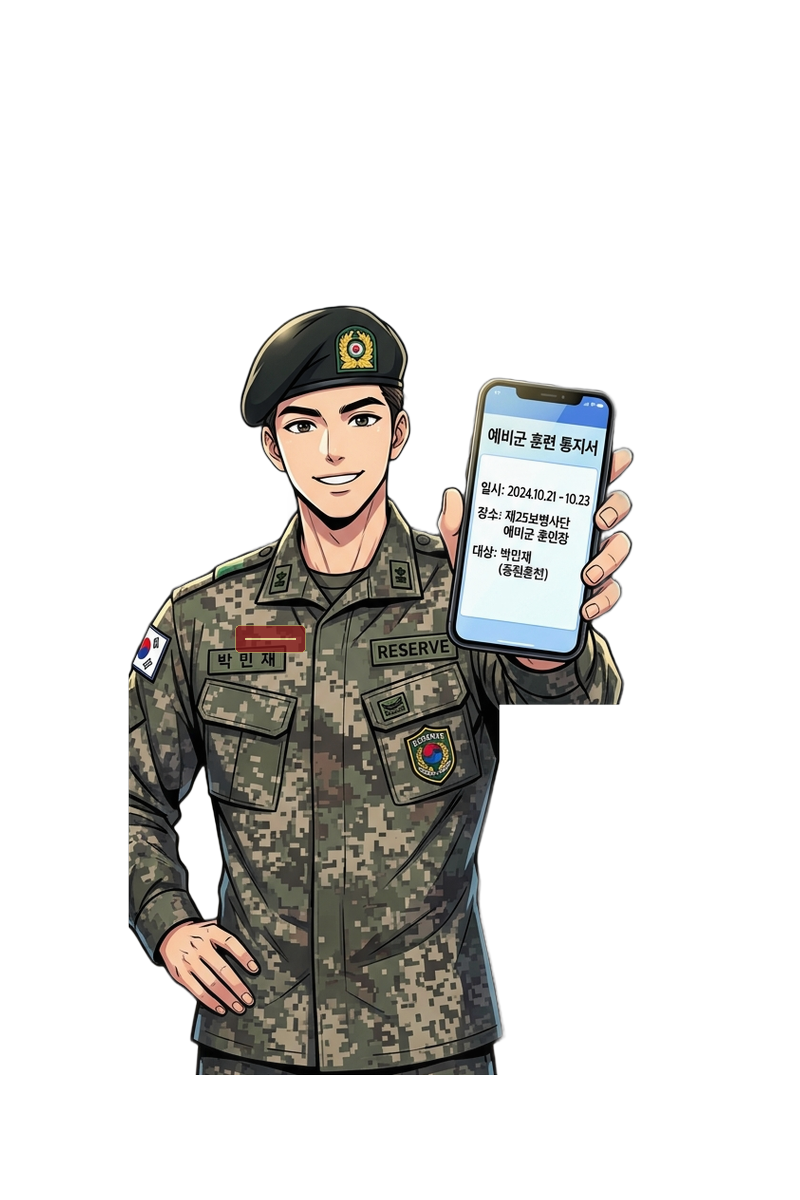
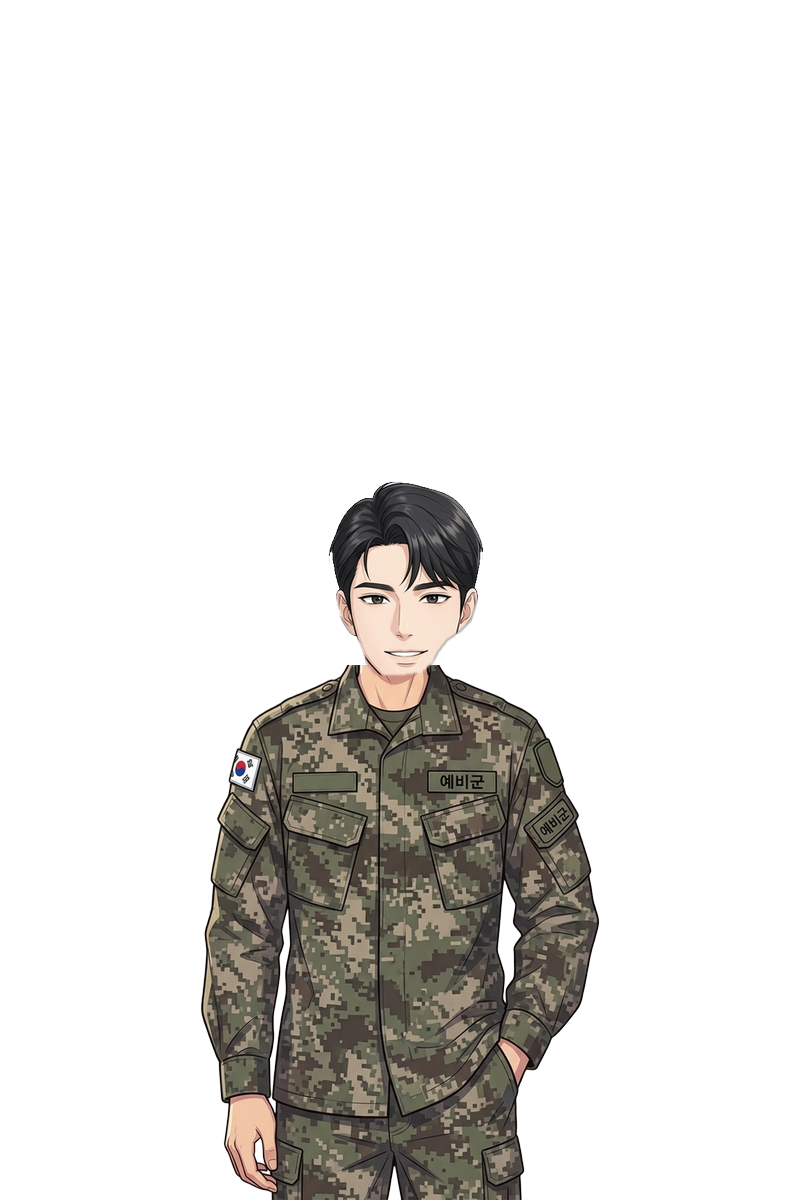
feat(ep2): 2화 AI 멘토 선택(힘찬/유나/서준) 연동 및 훈련 교관(최 상사) 핸드폰 제거/카리스마 군인 캐릭터 전면 교체

Changed region(s): [[0.1562, 0.2467, 0.8125, 1.0]]

diff --git a/index.html b/index.html
@@ -2353,8 +2353,8 @@
     // 가이드 페르소나 (외형, 화자명, 말투, 플레이트 색상) 동적 변환 헬퍼
     function getGuideResolvedItem(item) {
       if (!item) return item;
-      // Scene 1(가이드 멘토 첫 등장 및 선택 안내)은 사용자가 멘토를 결정하기 전이므로 항상 기본 캐릭터인 '힘찬이'로 고정
-      if (currentSceneIdx === 1) {
+      // Episode 1의 Scene 1(가이드 멘토 첫 등장 및 선택 안내)은 사용자가 멘토를 결정하기 전이므로 항상 기본 캐릭터인 '힘찬이'로 고정
+      if (currentPlayingEpisode === 1 && currentSceneIdx === 1) {
         return item;
       }
       const guideId = userData.selectedGuide || 'himchan';
@@ -2430,7 +2430,7 @@
       currentSceneIdx = idx;
       const scenarios = getCurrentScenarios();
       if (!scenarios || idx >= scenarios.length) return;
-      if (currentPlayingEpisode === 1 && idx === 1 && scenarios[1]) {
+      if ((currentPlayingEpisode === 1 || currentPlayingEpisode === 2) && idx === 1 && scenarios[1]) {
         // Scene 1에서는 가이드 선택 인트로 위젯 우선 표출
         scenarios[1].widgetType = 'GUIDE_SELECT_INTRO';
       }
@@ -3262,7 +3262,58 @@
       stopPreviewAudio();
       stopVoiceAudio();
       selectGuide(guideId, true, false);
-      proceedToRegionPicker(guideId);
+      if (currentPlayingEpisode === 2) {
+        proceedToEp2GuideGreeting(guideId);
+      } else {
+        proceedToRegionPicker(guideId);
+      }
+    }
+
+    function proceedToEp2GuideGreeting(guideId) {
+      const choiceOverlay = document.getElementById('center-choice-overlay');
+      const choiceContainer = document.getElementById('center-choice-container');
+      if (choiceOverlay) {
+        choiceOverlay.classList.add('hidden');
+        choiceOverlay.classList.remove('flex');
+      }
+      if (choiceContainer) choiceContainer.innerHTML = '';
+      
+      const gid = guideId || userData.selectedGuide || 'himchan';
+      const g = (typeof GUIDE_PERSONAS !== 'undefined' && GUIDE_PERSONAS[gid]) || (typeof GUIDE_PERSONAS !== 'undefined' ? GUIDE_PERSONAS.himchan : null);
+      
+      let askMsgKo = "";
+      let askMsgEn = "";
+      if (gid === 'himchan') {
+        askMsgKo = "충성! 선배님! 저 힘찬이가 전역 후 첫 예비군 훈련도 든든하게 보좌해 드리겠습니다!\n\n시험 일정과 훈련이 겹쳐서 많이 당황하셨죠? 걱정 마십시오! 선배님의 현재 [신분과 직업(학업)]에 맞는 맞춤형 훈련 혜택부터 바로 확인해 드릴게요!";
+        askMsgEn = "Salute! Senior {name}! Mentor Himchan will stand by you through your first reservist training!\n\nPanicked over exam dates overlapping? No worries! Let's immediately check the tailored training deferment matching your [Status & Occupation]!";
+      } else if (gid === 'yuna' || gid === 'narae') {
+        askMsgKo = "반가워요, {name} 선배님! 멘토 유나가 첫 예비군 훈련의 모든 절차를 하나하나 편안하게 챙겨드릴게요 :)\n\n시험 일정 때문에 너무 걱정하지 마세요! 먼저 선배님의 현재 [신분과 직업(학업)]에 맞는 훈련 과정부터 함께 확인해 볼까요?";
+        askMsgEn = "Nice to meet you, Senior {name}! I'm mentor Yuna, and I'll comfortably guide you through all reservist steps :)\n\nDon't stress over exam dates! Shall we first check the training program tailored to your [Status & Studies]?";
+      } else if (gid === 'seojun') {
+        askMsgKo = "안녕하십니까 {name} 선배님, 스마트 멘토 서준입니다. 학업과 예비군 훈련의 효율적인 병행을 위해 관련 규정과 일정을 신속 정확하게 안내해 드리겠습니다.\n\n먼저 선배님의 현재 [신분과 직업]에 따른 맞춤형 훈련 과정부터 확인해 볼까요?";
+        askMsgEn = "Greetings Senior {name}, I'm smart mentor Seojun. To efficiently balance your studies and reservist duty, I will guide you with precision and clear facts.\n\nShall we verify your tailored training program based on your current status first?";
+      } else {
+        askMsgKo = "선택해 주셔서 감사합니다, {name} 선배님! 든든한 멘토가 되어 드리겠습니다.\n\n선배님의 현재 [신분과 직업]에 맞는 맞춤형 훈련 과정부터 확인해 볼까요?";
+        askMsgEn = "Thank you for choosing me, Senior {name}! I'll be your dependable guide.\n\nShall we check your tailored training program first?";
+      }
+
+      const speakerKo = g ? `${g.name} (병무청 AI 가이드)` : "힘찬이 (병무청 AI 가이드)";
+      const speakerEn = g ? `${g.name_en} (MMA AI Guide)` : "Himchan (MMA AI Guide)";
+      const plateClass = g ? g.plateClass : "from-blue-700 to-indigo-800 border-blue-400/40";
+      const charSrc = (g && g.sprites && (g.sprites.smile || g.sprites.cheer || g.sprites.default)) || "assets/himchan_smile.png";
+
+      if (typeof SCENARIOS_EP2 !== 'undefined' && SCENARIOS_EP2[1]) {
+        SCENARIOS_EP2[1].widgetType = null;
+      }
+
+      updateDialogueDirect(
+        speakerKo,
+        speakerEn,
+        plateClass,
+        charSrc,
+        askMsgKo,
+        askMsgEn
+      );
     }
 
     function proceedToRegionPicker(guideId) {
@@ -3901,7 +3952,7 @@
             <!-- 멘토 캐릭터 선택 안내 헤더 -->
             <div class="bg-slate-900/95 border border-slate-700/80 rounded-2xl p-2.5 sm:p-4 text-center shadow-xl">
               <span class="text-xs sm:text-sm font-black text-blue-300 flex items-center justify-center gap-1.5 mb-1 tracking-wide">
-                <i data-lucide="users" class="w-4 h-4 text-cyan-400"></i> ${isEn ? 'Choose Your AI Mentor Guide' : '병역판정검사 동행 AI 가이드 멘토 선택'}
+                <i data-lucide="users" class="w-4 h-4 text-cyan-400"></i> ${isEn ? (currentPlayingEpisode === 2 ? 'Choose Your Reservist AI Mentor' : 'Choose Your AI Mentor Guide') : (currentPlayingEpisode === 2 ? '슬기로운 예비군 훈련 동행 AI 가이드 멘토 선택' : '병역판정검사 동행 AI 가이드 멘토 선택')}
               </span>
               <p class="text-[11px] sm:text-xs text-slate-300 truncate leading-tight">
                 ${isEn ? 'Tailored illustration, voice, and tone applied.' : '선택한 멘토에 맞춰 일러스트·말투·목소리가 적용됩니다.'}
@@ -3924,7 +3975,7 @@
                       <div class="text-center space-y-1">
                         <h4 class="font-black text-base sm:text-lg text-white group-hover:text-blue-300 transition">힘찬이</h4>
                         <p class="text-[11px] sm:text-xs text-slate-300 truncate">
-                          ${isEn ? 'Energetic mentor keeping your spirits high' : '긍정 에너지로 긴장을 풀어주는 열혈 멘토'}
+                          ${isEn ? (currentPlayingEpisode === 2 ? 'Energetic reservist mentor boosting morale' : 'Energetic mentor keeping your spirits high') : (currentPlayingEpisode === 2 ? '사기를 북돋우고 든든하게 보좌하는 열혈 예비군 멘토' : '긍정 에너지로 긴장을 풀어주는 열혈 멘토')}
                         </p>
                       </div>
                     </div>
@@ -3953,7 +4004,7 @@
                       <div class="text-center space-y-1">
                         <h4 class="font-black text-base sm:text-lg text-white group-hover:text-rose-300 transition">유나</h4>
                         <p class="text-[11px] sm:text-xs text-slate-300 truncate">
-                          ${isEn ? 'Calm & caring mentor guiding you kindly' : '차분하고 세심하게 챙겨주는 안심 멘토'}
+                          ${isEn ? (currentPlayingEpisode === 2 ? 'Kind & caring mentor guiding procedures gently' : 'Calm & caring mentor guiding you kindly') : (currentPlayingEpisode === 2 ? '친절하고 세심하게 훈련 혜택을 챙겨주는 안심 멘토' : '차분하고 세심하게 챙겨주는 안심 멘토')}
                         </p>
                       </div>
                     </div>
@@ -3982,7 +4033,7 @@
                       <div class="text-center space-y-1">
                         <h4 class="font-black text-base sm:text-lg text-white group-hover:text-emerald-300 transition">서준</h4>
                         <p class="text-[11px] sm:text-xs text-slate-300 truncate">
-                          ${isEn ? 'Precise smart mentor guided by clear facts' : '정확한 규정과 데이터로 안내하는 스마트 멘토'}
+                          ${isEn ? (currentPlayingEpisode === 2 ? 'Smart mentor with precise regulations and schedules' : 'Precise smart mentor guided by clear facts') : (currentPlayingEpisode === 2 ? '정확한 법령 규정과 최적 일정으로 안내하는 스마트 멘토' : '정확한 규정과 데이터로 안내하는 스마트 멘토')}
                         </p>
                       </div>
                     </div>
@@ -6895,6 +6946,9 @@
         pendingStartEpisode = 1;
         openNameInputOverlay(1, forceNew);
       } else if (epNum === 2) {
+        userData.selectedGuide = 'himchan';
+        try { localStorage.setItem('mma_selected_guide', 'himchan'); } catch(e) {}
+        if (typeof updateSettingsModalUI === 'function') updateSettingsModalUI();
         pendingStartEpisode = 2;
         currentPlayingEpisode = 2;
         openNameInputOverlay(2, forceNew);
@@ -6919,7 +6973,7 @@
         clearSaveGameState();
         conversationHistory.length = 0;
         currentBg = "";
-        if (epNum === 1) {
+        if (epNum === 1 || epNum === 2) {
           userData.selectedGuide = 'himchan';
           try { localStorage.setItem('mma_selected_guide', 'himchan'); } catch (e) {}
           if (typeof updateSettingsModalUI === 'function') updateSettingsModalUI();

diff --git a/scenario_ep2.js b/scenario_ep2.js
@@ -56,19 +56,19 @@ const SCENARIOS_EP2 = [
     apiSource: null,
     apiSource_en: null,
     isApi: false,
-    widgetType: null
+    widgetType: "GUIDE_SELECT_INTRO"
   },
 
-  // [SCENE 2] 행정지원 조교 이일병 등장 - 맞춤형 신분 판별
+  // [SCENE 2] AI 가이드 멘토의 맞춤형 신분 판별
   {
     bg: "assets/ep2_room.jpg",
-    char: "assets/ep2_assistant_polite.png",
+    char: "assets/himchan_smile.png",
     charPos: "right",
-    speaker: "이 일병 (예비군 행정지원 조교)",
-    speaker_en: "PFC Lee (Reserve Support Assistant)",
-    plateClass: "from-emerald-800 to-slate-900 border-emerald-500/40",
-    text: "충성! 안녕하십니까 {name} 선배님! 병무청 예비군 자원관리과 스마트 행정지원 조교 이일병입니다!\n전역 후 첫 소집통지서 알림톡을 받으시고 많이 놀라셨죠?\n\n하지만 걱정 마십시오! 예비군 훈련은 선배님의 현재 [신분과 직업(학업)]에 따라 훈련 과정이 맞춤형으로 편성됩니다!",
-    text_en: "Salute! Hello Senior Reservist {name}! I'm Private First Class Lee from the MMA Reserve Support Team!\nStartled by your first call-up alert after discharge?\n\nDon't worry at all! Reservist training schedules are customized strictly according to your [Current Status & Occupation]!",
+    speaker: "힘찬이 (병무청 AI 가이드)",
+    speaker_en: "Himchan (MMA AI Guide)",
+    plateClass: "from-blue-700 to-indigo-800 border-blue-400/40",
+    text: "충성! 안녕하십니까 {name} 선배님! 병무청 예비군 스마트 AI 가이드 힘찬이입니다!\n전역 후 첫 소집통지서 알림톡을 받으시고 많이 놀라셨죠?\n\n하지만 걱정 마십시오! 예비군 훈련은 선배님의 현재 [신분과 직업(학업)]에 따라 훈련 과정이 맞춤형으로 편성됩니다!",
+    text_en: "Salute! Hello Senior Reservist {name}! I'm Himchan, your MMA Smart AI Guide!\nStartled by your first call-up alert after discharge?\n\nDon't worry at all! Reservist training schedules are customized strictly according to your [Current Status & Occupation]!",
     apiSource: "[근거 법령] 「병역법」 제44조~제54조(동원훈련) 및 「예비군법」 제6조(훈련)",
     apiSource_en: "[Law] Military Service Act Arts 44-54 & Reserve Forces Act Art 6",
     apiSourceUrl: "https://www.law.go.kr",
@@ -80,11 +80,11 @@ const SCENARIOS_EP2 = [
   // [SCENE 3] 대학생 방침보류(8시간) 판정 안내
   {
     bg: "assets/ep2_room.jpg",
-    char: "assets/ep2_assistant_polite.png",
+    char: "assets/himchan_smile.png",
     charPos: "right",
-    speaker: "이 일병 (예비군 행정지원 조교)",
-    speaker_en: "PFC Lee (Reserve Support Assistant)",
-    plateClass: "from-emerald-800 to-slate-900 border-emerald-500/40",
+    speaker: "힘찬이 (병무청 AI 가이드)",
+    speaker_en: "Himchan (MMA AI Guide)",
+    plateClass: "from-blue-700 to-indigo-800 border-blue-400/40",
     text: "맞습니다! 대학교 재학생이신 {name} 선배님은 [방침일부보류(학생예비군)] 대상자이십니다!\n\n일반 동원훈련(2박 3일 28시간)이나 동미참(4일 32시간) 대신,\n1년에 단 하루! [8시간 기본훈련]만 이수하시면 2026년도 예비군 훈련이 100% 완료 처리됩니다!",
     text_en: "Exactly! As an enrolled college student, you qualify for [Policy Partial Suspension (Student Reservist)]!\n\nInstead of 2-night 3-day mobilization or 4-day non-mobilization,\nyou only need to complete [8-hour Basic Training for 1 day] per year to finish 100% of your requirement!",
     apiSource: "[근거 법령] 국가법령정보센터: 「예비군법 시행령」 제4조 및 병무청 동원보류처리지침",
@@ -98,11 +98,11 @@ const SCENARIOS_EP2 = [
   // [SCENE 4] 전국단위 자율 훈련 신청 & 휴일 훈련 선택
   {
     bg: "assets/ep2_room.jpg",
-    char: "assets/ep2_assistant_polite.png",
+    char: "assets/himchan_smile.png",
     charPos: "right",
-    speaker: "이 일병 (예비군 행정지원 조교)",
-    speaker_en: "PFC Lee (Reserve Support Assistant)",
-    plateClass: "from-emerald-800 to-slate-900 border-emerald-500/40",
+    speaker: "힘찬이 (병무청 AI 가이드)",
+    speaker_en: "Himchan (MMA AI Guide)",
+    plateClass: "from-blue-700 to-indigo-800 border-blue-400/40",
     text: "중간고사 시험 날짜와 겹치더라도 전혀 걱정하실 필요 없습니다!\n\n병무청과 국방부는 예비군 선배님들의 학업과 생업 보장을 위해 [전국단위 훈련 신청] 및 [휴일 훈련 신청] 제도를 상시 운영하고 있습니다.\n시험이 끝난 직후 주말이나 원하시는 날짜의 공석을 직접 선택해 보시겠습니까?",
     text_en: "Even if it overlaps with midterms, there is no need to panic!\n\nMMA and MND provide [Nationwide Training Application] & [Holiday Training Application] systems.\nWould you like to pick your desired date and location across scientific training centers nationwide?",
     apiSource: "[API] 공공데이터포털: 국방부_예비군훈련 일정 및 전국단위 훈련 공석 현황 Open API",
@@ -132,11 +132,11 @@ const SCENARIOS_EP2 = [
   // [SCENE 6] 피복 무료 대여 조교의 친절한 안내 & D-1 체크리스트
   {
     bg: "assets/ep2_room.jpg",
-    char: "assets/ep2_assistant_polite.png",
+    char: "assets/himchan_smile.png",
     charPos: "right",
-    speaker: "이 일병 (피복보급 조교)",
-    speaker_en: "PFC Lee (Supply Assistant)",
-    plateClass: "from-emerald-800 to-slate-900 border-emerald-500/40",
+    speaker: "힘찬이 (병무청 AI 가이드)",
+    speaker_en: "Himchan (MMA AI Guide)",
+    plateClass: "from-blue-700 to-indigo-800 border-blue-400/40",
     text: "예비군 선배님, 충성! 전국의 모든 예비역 선배님들이 겪으시는 고민이니 전혀 걱정 마십시오!\n\n국방부 예비군 교육훈련 훈령에 따라 훈련장 안내데스크에서 [전투복·전투화·요대(벨트)·방한모를 100% 무료 대여]해 드립니다!\n신분증만 지참하시면 선배님 치수에 딱 맞는 깨끗한 새 군복으로 즉시 무상 교환해 드리겠습니다!",
     text_en: "Salute, Senior Reservist! Don't worry at all, this is a universal concern for all veterans!\n\nUnder MND Reservist Orders, our supply desk provides [100% Free Rental for Uniforms, Boots, Belts & Caps]!\nJust bring your ID, and we'll instantly hand you a clean uniform tailored to your exact measurements!",
     apiSource: "[근거 훈령] 국가법령정보센터: 「국방부 예비군 훈련 관리 훈령」(피복 및 장구류 무료 대여 규정)",

diff --git a/scripts/build_ep2_cast.py b/scripts/build_ep2_cast.py
@@ -1,0 +1,147 @@
+import cv2
+import numpy as np
+from PIL import Image, ImageDraw, ImageFilter, ImageEnhance
+import math
+import os
+
+os.makedirs('assets', exist_ok=True)
+
+hero_uni = Image.open('assets/ep2_hero_uniform.png').convert('RGBA')
+asst = Image.open('assets/assistant_adjudicator.png').convert('RGBA')
+
+def make_instructor(strict=True):
+    base = hero_uni.copy()
+    
+    # 1. Isolate asst head cleanly
+    mask = Image.new('L', (800, 1200), 0)
+    draw_m = ImageDraw.Draw(mask)
+    polygon = [
+        (380, 480), (455, 485), (480, 520), (480, 560), (465, 580), 
+        (430, 600), (430, 622), (370, 622), (370, 600), (335, 580), 
+        (320, 560), (320, 520), (350, 485)
+    ]
+    draw_m.polygon(polygon, fill=255)
+    mask = mask.filter(ImageFilter.GaussianBlur(1.5))
+    
+    # In base (hero_uni), remove old beret behind hair on left:
+    base_arr = np.array(base)
+    for y in range(470, 580):
+        for x in range(300, 350):
+            if x < 330:
+                base_arr[y, x, 3] = 0
+    base = Image.fromarray(base_arr)
+    
+    # Prepare asst face
+    asst_face = asst.copy()
+    
+    if strict:
+        draw_f = ImageDraw.Draw(asst_face)
+        draw_f.arc((385, 558, 420, 572), start=180, end=360, fill=(150, 50, 40, 240), width=3)
+        draw_f.line([(387, 563), (418, 563)], fill=(120, 40, 30, 255), width=3)
+        draw_f.line([(355, 518), (385, 523)], fill=(40, 30, 25, 230), width=4)
+        draw_f.line([(420, 523), (450, 518)], fill=(40, 30, 25, 230), width=4)
+    else:
+        draw_f = ImageDraw.Draw(asst_face)
+        draw_f.arc((385, 555, 420, 575), start=15, end=165, fill=(160, 45, 35, 240), width=4)
+        
+    asst_alpha = asst.split()[3]
+    comb_mask = Image.new('L', (800, 1200), 0)
+    comb_mask.paste(mask, (0, 0), asst_alpha)
+    
+    inst = base.copy()
+    inst.paste(asst_face, (0, 0), comb_mask)
+    
+    draw_i = ImageDraw.Draw(inst)
+    
+    # Left chest tag: 교 관
+    draw_i.rectangle([425, 765, 500, 790], fill=(25, 45, 30, 255), outline=(15, 30, 20, 255), width=1)
+    draw_i.line([(440, 777), (460, 777)], fill=(240, 240, 220, 240), width=3)
+    draw_i.line([(450, 772), (450, 783)], fill=(240, 240, 220, 240), width=3)
+    draw_i.line([(470, 777), (490, 777)], fill=(240, 240, 220, 240), width=3)
+    draw_i.line([(480, 772), (480, 783)], fill=(240, 240, 220, 240), width=3)
+    
+    # Right chest tag: 최 진 우
+    draw_i.rectangle([290, 765, 365, 790], fill=(25, 45, 30, 255), outline=(15, 30, 20, 255), width=1)
+    draw_i.line([(305, 777), (350, 777)], fill=(240, 240, 220, 240), width=3)
+    
+    # Remove 예비군 arm tag on left arm
+    draw_i.rectangle([520, 800, 580, 835], fill=(45, 60, 40, 255))
+    
+    # Red Instructor Armband on right arm (viewer left: x: 215 to 275, y: 775 to 855)
+    draw_i.rectangle([215, 775, 275, 855], fill=(210, 25, 25, 245), outline=(255, 215, 0, 255), width=3)
+    draw_i.line([(225, 815), (265, 815)], fill=(255, 240, 150, 255), width=4)
+    draw_i.line([(245, 795), (245, 835)], fill=(255, 240, 150, 255), width=4)
+    
+    # Master Sergeant collar rank (상사 계급장 - 3 chevrons + arc)
+    for cx in [350, 445]:
+        draw_i.rectangle([cx-10, 680, cx+10, 700], fill=(15, 30, 20, 240))
+        draw_i.line([(cx-7, 688), (cx, 683), (cx+7, 688)], fill=(255, 215, 0, 255), width=2)
+        draw_i.line([(cx-7, 692), (cx, 687), (cx+7, 692)], fill=(255, 215, 0, 255), width=2)
+        draw_i.line([(cx-7, 696), (cx, 691), (cx+7, 696)], fill=(255, 215, 0, 255), width=2)
+        draw_i.arc((cx-8, 694, cx+8, 702), start=10, end=170, fill=(255, 215, 0, 255), width=2)
+
+    if not strict:
+        draw_i.polygon([(460, 720), (470, 705), (480, 720), (495, 725), (483, 737), (487, 752), (470, 742), (453, 752), (457, 737), (445, 725)], fill=(255, 215, 0, 250), outline=(255, 255, 200, 255))
+        
+    return inst
+
+inst_strict = make_instructor(strict=True)
+inst_strict.save('assets/ep2_instructor_strict.png')
+print('assets/ep2_instructor_strict.png created')
+
+inst_salute = make_instructor(strict=False)
+inst_salute.save('assets/ep2_instructor_salute.png')
+print('assets/ep2_instructor_salute.png created')
+
+def make_cpr_instructor():
+    inst = make_instructor(strict=False)
+    draw = ImageDraw.Draw(inst)
+    draw.rectangle([520, 775, 580, 855], fill=(250, 250, 255, 250), outline=(220, 20, 20, 255), width=3)
+    draw.rectangle([545, 790, 555, 840], fill=(220, 20, 20, 255))
+    draw.rectangle([530, 810, 570, 820], fill=(220, 20, 20, 255))
+    inst.save('assets/ep2_cpr_instructor.png')
+    print('assets/ep2_cpr_instructor.png created')
+
+make_cpr_instructor()
+
+def make_donghyun():
+    dh_base = hero_uni.transpose(Image.FLIP_LEFT_RIGHT)
+    arr = np.array(dh_base).astype(np.float32)
+    arr[:, :, 0] = np.clip(arr[:, :, 0] * 1.04 + 8, 0, 255)
+    arr[:, :, 1] = np.clip(arr[:, :, 1] * 1.01, 0, 255)
+    arr[:, :, 2] = np.clip(arr[:, :, 2] * 0.96, 0, 255)
+    dh_img = Image.fromarray(arr.astype(np.uint8))
+    
+    # Smile
+    dh_smile = dh_img.copy()
+    draw_s = ImageDraw.Draw(dh_smile)
+    draw_s.arc((365, 605, 435, 635), start=15, end=165, fill=(170, 50, 40, 230), width=4)
+    draw_s.rectangle([435, 765, 510, 790], fill=(25, 45, 30, 255))
+    draw_s.line([(450, 777), (495, 777)], fill=(240, 240, 220, 240), width=3)
+    dh_smile.save('assets/ep2_donghyun_smile.png')
+    print('assets/ep2_donghyun_smile.png created')
+    
+    # Excited
+    dh_exc = dh_img.copy()
+    overlay = Image.new('RGBA', dh_exc.size, (0, 0, 0, 0))
+    draw_e = ImageDraw.Draw(overlay)
+    def draw_star(cx, cy, r, color):
+        points = []
+        for i in range(8):
+            angle = i * math.pi / 4
+            d = r if i % 2 == 0 else r * 0.35
+            points.append((cx + d * math.cos(angle), cy + d * math.sin(angle)))
+        draw_e.polygon(points, fill=color)
+        
+    draw_star(380, 560, 14, (255, 230, 50, 255))
+    draw_star(425, 560, 14, (255, 230, 50, 255))
+    draw_star(280, 520, 20, (255, 215, 0, 230))
+    draw_star(520, 530, 22, (255, 105, 180, 230))
+    draw_e.arc((360, 600, 440, 640), start=10, end=170, fill=(180, 40, 30, 255), width=5)
+    
+    dh_exc = Image.alpha_composite(dh_exc, overlay)
+    dh_exc.save('assets/ep2_donghyun_excited.png')
+    print('assets/ep2_donghyun_excited.png created')
+
+make_donghyun()
+print('ALL CAST SPRITES BUILT!')
